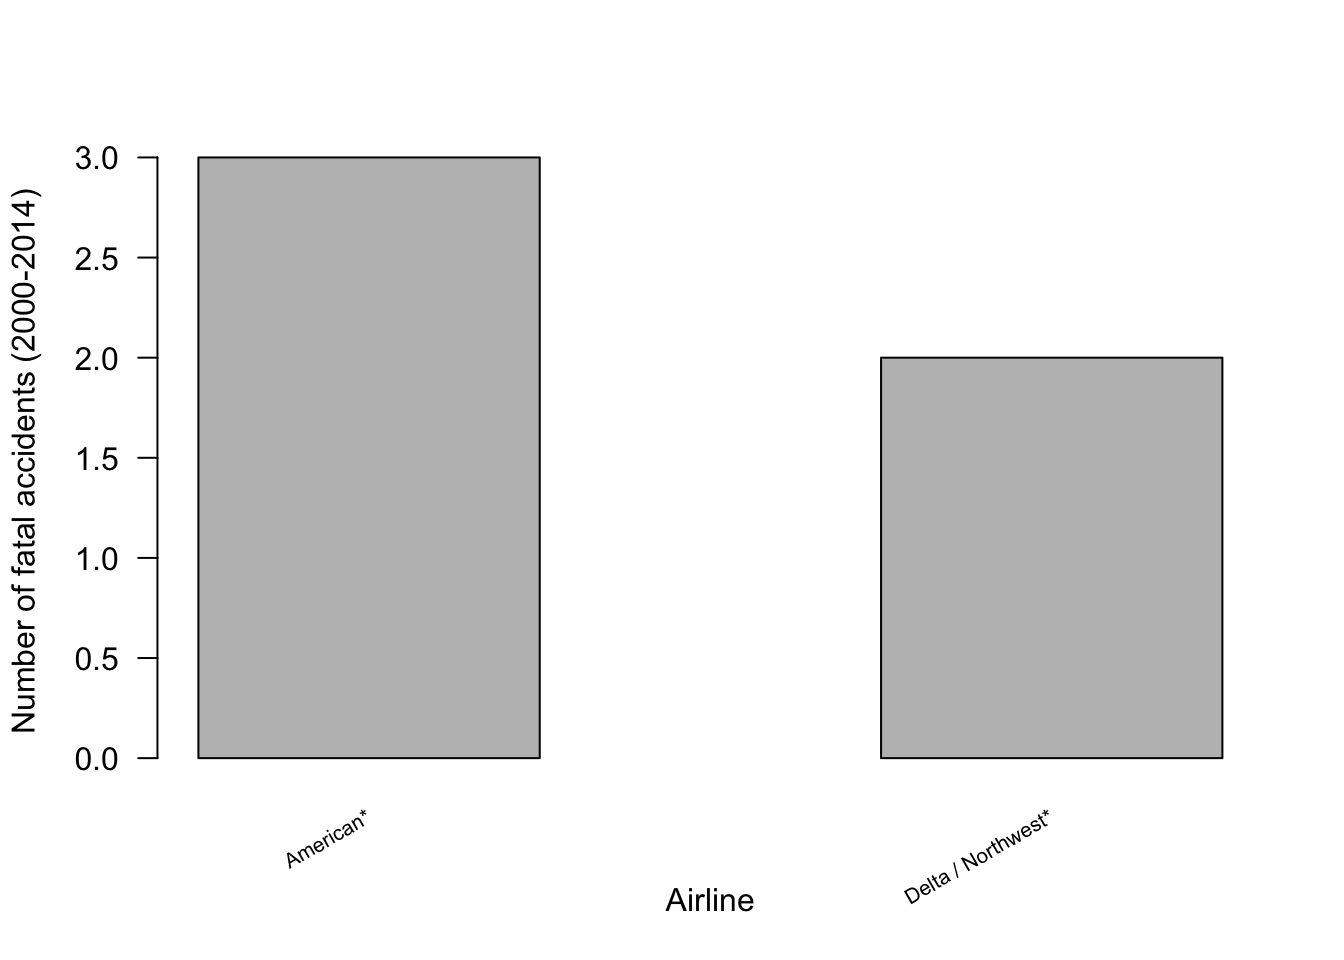
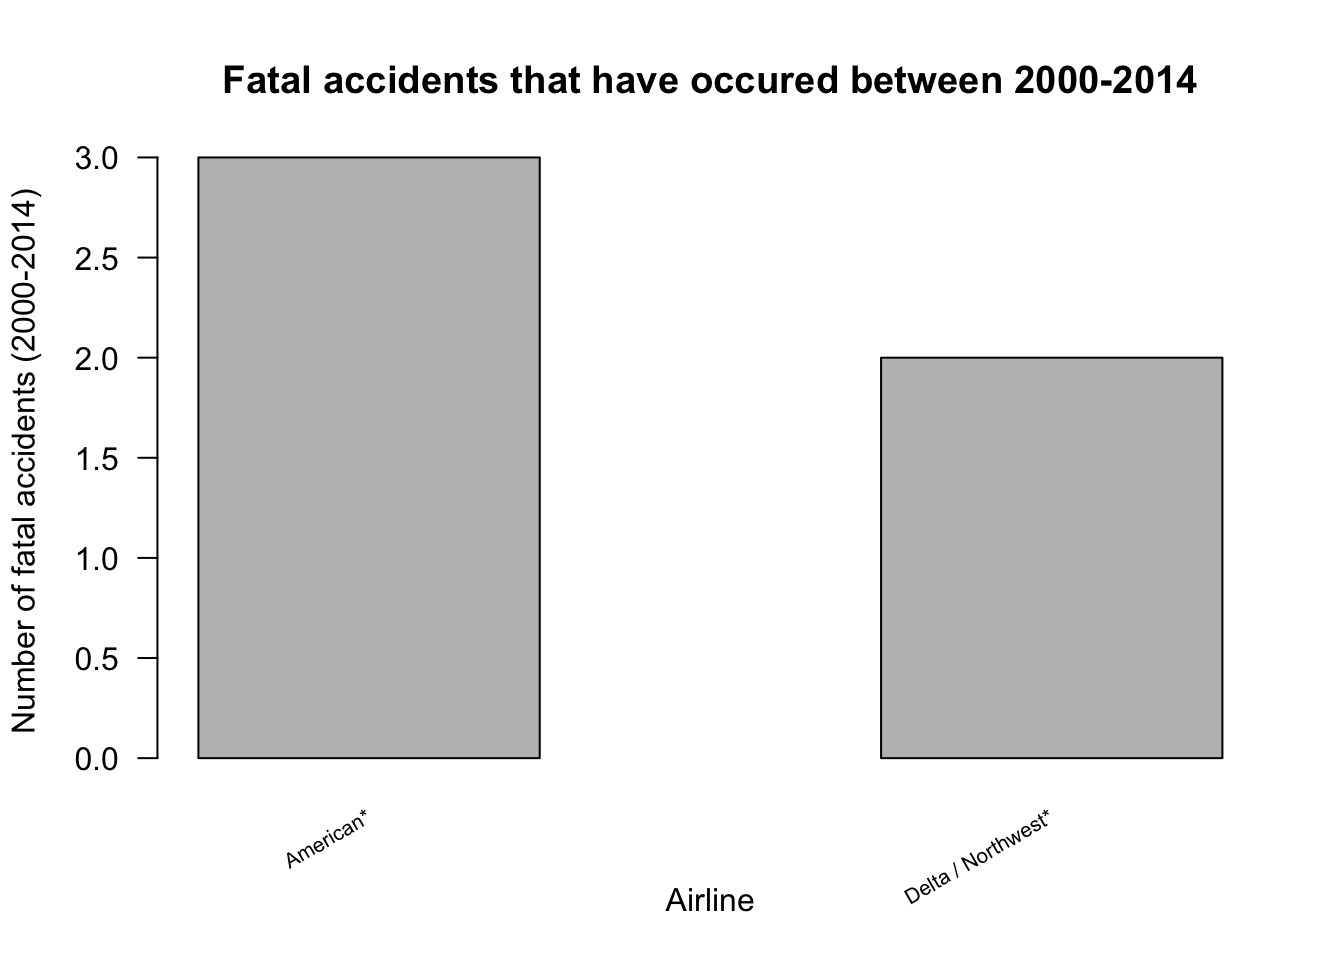
finalized assignment v2

Changed region(s): [[0.1562, 0.0625, 0.9062, 0.0938]]

diff --git a/docs/posts/BCB 520 MidtermPortfolio /index.html b/docs/posts/BCB 520 MidtermPortfolio /index.html
@@ -357,7 +357,7 @@ Median                                                   4.000000
 </div>
 <details>
 <summary>Code</summary>
-<div class="sourceCode cell-code" id="cb8"><pre class="sourceCode r code-with-copy"><code class="sourceCode r"><span id="cb8-1"><a href="#cb8-1" aria-hidden="true" tabindex="-1"></a><span class="fu">hist</span>(airlinesafety<span class="sc">$</span>incidents_85_99, <span class="at">freq =</span> <span class="cn">TRUE</span>,</span>
+<div class="sourceCode cell-code" id="cb8"><pre class="sourceCode r code-with-copy"><code class="sourceCode r"><span id="cb8-1"><a href="#cb8-1" aria-hidden="true" tabindex="-1"></a><span class="fu">hist</span>(airlinesafety<span class="sc">$</span>incidents_85_99, <span class="at">main =</span> <span class="st">"Incidents that have occured between 1985-1999"</span>, <span class="at">freq =</span> <span class="cn">TRUE</span>,</span>
 <span id="cb8-2"><a href="#cb8-2" aria-hidden="true" tabindex="-1"></a>     <span class="at">xlab =</span> <span class="st">"Number of incidents in 1985 to 1999"</span>,</span>
 <span id="cb8-3"><a href="#cb8-3" aria-hidden="true" tabindex="-1"></a>     <span class="at">ylab =</span> <span class="st">"Frequency"</span>, <span class="at">ylim =</span> <span class="fu">c</span>(<span class="dv">0</span>, <span class="dv">50</span>))</span></code><button title="Copy to Clipboard" class="code-copy-button"><i class="bi"></i></button></pre></div>
 </details>
@@ -366,7 +366,7 @@ Median                                                   4.000000
 </div>
 <details>
 <summary>Code</summary>
-<div class="sourceCode cell-code" id="cb9"><pre class="sourceCode r code-with-copy"><code class="sourceCode r"><span id="cb9-1"><a href="#cb9-1" aria-hidden="true" tabindex="-1"></a><span class="fu">hist</span>(airlinesafety<span class="sc">$</span>incidents_00_14, <span class="at">freq =</span> <span class="cn">TRUE</span>,</span>
+<div class="sourceCode cell-code" id="cb9"><pre class="sourceCode r code-with-copy"><code class="sourceCode r"><span id="cb9-1"><a href="#cb9-1" aria-hidden="true" tabindex="-1"></a><span class="fu">hist</span>(airlinesafety<span class="sc">$</span>incidents_00_14, <span class="at">main =</span> <span class="st">"Incidents that have occured between 2000-2014"</span>, <span class="at">freq =</span> <span class="cn">TRUE</span>,</span>
 <span id="cb9-2"><a href="#cb9-2" aria-hidden="true" tabindex="-1"></a>     <span class="at">xlab =</span> <span class="st">"Number of incidents in 2000 to 2014"</span>,</span>
 <span id="cb9-3"><a href="#cb9-3" aria-hidden="true" tabindex="-1"></a>     <span class="at">ylab =</span> <span class="st">"Frequency"</span>, <span class="at">ylim =</span> <span class="fu">c</span>(<span class="dv">0</span>, <span class="dv">50</span>))</span></code><button title="Copy to Clipboard" class="code-copy-button"><i class="bi"></i></button></pre></div>
 </details>
@@ -409,8 +409,8 @@ Max                                                                 14.000000
 <details>
 <summary>Code</summary>
 <div class="sourceCode cell-code" id="cb12"><pre class="sourceCode r code-with-copy"><code class="sourceCode r"><span id="cb12-1"><a href="#cb12-1" aria-hidden="true" tabindex="-1"></a>selected_85_99 <span class="ot">=</span> airlinesafety<span class="sc">$</span>incidents_85_99 <span class="sc">&gt;=</span> <span class="dv">15</span></span>
-<span id="cb12-2"><a href="#cb12-2" aria-hidden="true" tabindex="-1"></a><span class="fu">barplot</span>(<span class="at">formula =</span> fatal_accidents_85_99 <span class="sc">~</span> airline, <span class="at">data =</span> airlinesafety[selected_85_99,],</span>
-<span id="cb12-3"><a href="#cb12-3" aria-hidden="true" tabindex="-1"></a>        <span class="at">horiz =</span> <span class="cn">FALSE</span>, <span class="at">cex.axis =</span> <span class="dv">1</span>,</span>
+<span id="cb12-2"><a href="#cb12-2" aria-hidden="true" tabindex="-1"></a><span class="fu">barplot</span>(<span class="at">formula =</span> fatal_accidents_85_99 <span class="sc">~</span> airline, <span class="at">main=</span><span class="st">"Fatal accidents that have occured between 1985-1999"</span>, <span class="at">data =</span> airlinesafety[selected_85_99, ],  </span>
+<span id="cb12-3"><a href="#cb12-3" aria-hidden="true" tabindex="-1"></a>        <span class="at">horiz =</span> <span class="cn">FALSE</span>, <span class="at">cex.axis =</span> <span class="dv">1</span>, </span>
 <span id="cb12-4"><a href="#cb12-4" aria-hidden="true" tabindex="-1"></a>        <span class="at">xlab =</span> <span class="st">"Airline"</span>, <span class="at">xaxt =</span> <span class="st">"n"</span>,</span>
 <span id="cb12-5"><a href="#cb12-5" aria-hidden="true" tabindex="-1"></a>        <span class="at">las =</span> <span class="dv">2</span>,</span>
 <span id="cb12-6"><a href="#cb12-6" aria-hidden="true" tabindex="-1"></a>        <span class="at">ylab =</span> <span class="st">"Number of fatal accidents (1985-1999)"</span>,</span>
@@ -429,7 +429,7 @@ Max                                                                 14.000000
 <details>
 <summary>Code</summary>
 <div class="sourceCode cell-code" id="cb13"><pre class="sourceCode r code-with-copy"><code class="sourceCode r"><span id="cb13-1"><a href="#cb13-1" aria-hidden="true" tabindex="-1"></a>selected_00_14 <span class="ot">=</span> airlinesafety<span class="sc">$</span>incidents_00_14 <span class="sc">&gt;=</span> <span class="dv">15</span></span>
-<span id="cb13-2"><a href="#cb13-2" aria-hidden="true" tabindex="-1"></a><span class="fu">barplot</span>(<span class="at">formula =</span> fatal_accidents_00_14 <span class="sc">~</span> airline, <span class="at">data =</span> airlinesafety[selected_00_14,],</span>
+<span id="cb13-2"><a href="#cb13-2" aria-hidden="true" tabindex="-1"></a><span class="fu">barplot</span>(<span class="at">formula =</span> fatal_accidents_00_14 <span class="sc">~</span> airline, <span class="at">main=</span><span class="st">"Fatal accidents that have occured between 2000-2014"</span>, <span class="at">data =</span> airlinesafety[selected_00_14,],</span>
 <span id="cb13-3"><a href="#cb13-3" aria-hidden="true" tabindex="-1"></a>        <span class="at">horiz =</span> <span class="cn">FALSE</span>, <span class="at">cex.axis =</span> <span class="dv">1</span>,</span>
 <span id="cb13-4"><a href="#cb13-4" aria-hidden="true" tabindex="-1"></a>        <span class="at">xlab =</span> <span class="st">"Airline"</span>, <span class="at">xaxt =</span> <span class="st">"n"</span>,</span>
 <span id="cb13-5"><a href="#cb13-5" aria-hidden="true" tabindex="-1"></a>        <span class="at">las =</span> <span class="dv">2</span>,</span>
@@ -700,10 +700,10 @@ window.document.addEventListener("DOMContentLoaded", function (event) {
 <span id="cb14-64"><a href="#cb14-64" aria-hidden="true" tabindex="-1"></a>      <span class="st">`</span><span class="at">% of airlines with more than incident in 15 years</span><span class="st">`</span> <span class="ot">=</span> <span class="dv">100</span><span class="sc">*</span><span class="fu">c</span>(<span class="fu">mean</span>(airlinesafety<span class="sc">$</span>incidents_00_14 <span class="sc">&gt;</span> <span class="dv">1</span>), <span class="fu">mean</span>(airlinesafety<span class="sc">$</span>incidents_85_99 <span class="sc">&gt;</span> <span class="dv">1</span>)))</span>
 <span id="cb14-65"><a href="#cb14-65" aria-hidden="true" tabindex="-1"></a>SumIncidents</span>
 <span id="cb14-66"><a href="#cb14-66" aria-hidden="true" tabindex="-1"></a></span>
-<span id="cb14-67"><a href="#cb14-67" aria-hidden="true" tabindex="-1"></a><span class="fu">hist</span>(airlinesafety<span class="sc">$</span>incidents_85_99, <span class="at">freq =</span> <span class="cn">TRUE</span>,</span>
+<span id="cb14-67"><a href="#cb14-67" aria-hidden="true" tabindex="-1"></a><span class="fu">hist</span>(airlinesafety<span class="sc">$</span>incidents_85_99, <span class="at">main =</span> <span class="st">"Incidents that have occured between 1985-1999"</span>, <span class="at">freq =</span> <span class="cn">TRUE</span>,</span>
 <span id="cb14-68"><a href="#cb14-68" aria-hidden="true" tabindex="-1"></a>     <span class="at">xlab =</span> <span class="st">"Number of incidents in 1985 to 1999"</span>,</span>
 <span id="cb14-69"><a href="#cb14-69" aria-hidden="true" tabindex="-1"></a>     <span class="at">ylab =</span> <span class="st">"Frequency"</span>, <span class="at">ylim =</span> <span class="fu">c</span>(<span class="dv">0</span>, <span class="dv">50</span>))</span>
-<span id="cb14-70"><a href="#cb14-70" aria-hidden="true" tabindex="-1"></a><span class="fu">hist</span>(airlinesafety<span class="sc">$</span>incidents_00_14, <span class="at">freq =</span> <span class="cn">TRUE</span>,</span>
+<span id="cb14-70"><a href="#cb14-70" aria-hidden="true" tabindex="-1"></a><span class="fu">hist</span>(airlinesafety<span class="sc">$</span>incidents_00_14, <span class="at">main =</span> <span class="st">"Incidents that have occured between 2000-2014"</span>, <span class="at">freq =</span> <span class="cn">TRUE</span>,</span>
 <span id="cb14-71"><a href="#cb14-71" aria-hidden="true" tabindex="-1"></a>     <span class="at">xlab =</span> <span class="st">"Number of incidents in 2000 to 2014"</span>,</span>
 <span id="cb14-72"><a href="#cb14-72" aria-hidden="true" tabindex="-1"></a>     <span class="at">ylab =</span> <span class="st">"Frequency"</span>, <span class="at">ylim =</span> <span class="fu">c</span>(<span class="dv">0</span>, <span class="dv">50</span>))</span>
 <span id="cb14-73"><a href="#cb14-73" aria-hidden="true" tabindex="-1"></a></span>
@@ -724,8 +724,8 @@ window.document.addEventListener("DOMContentLoaded", function (event) {
 <span id="cb14-90"><a href="#cb14-90" aria-hidden="true" tabindex="-1"></a>With this information, I sought to know the airlines with much with on average one incident per year or more in the period 1985-1999 as well as the period 2000-2014</span>
 <span id="cb14-93"><a href="#cb14-93" aria-hidden="true" tabindex="-1"></a><span class="in">```{r}</span></span>
 <span id="cb14-94"><a href="#cb14-94" aria-hidden="true" tabindex="-1"></a>selected_85_99 <span class="ot">=</span> airlinesafety<span class="sc">$</span>incidents_85_99 <span class="sc">&gt;=</span> <span class="dv">15</span></span>
-<span id="cb14-95"><a href="#cb14-95" aria-hidden="true" tabindex="-1"></a><span class="fu">barplot</span>(<span class="at">formula =</span> fatal_accidents_85_99 <span class="sc">~</span> airline, <span class="at">data =</span> airlinesafety[selected_85_99,],</span>
-<span id="cb14-96"><a href="#cb14-96" aria-hidden="true" tabindex="-1"></a>        <span class="at">horiz =</span> <span class="cn">FALSE</span>, <span class="at">cex.axis =</span> <span class="dv">1</span>,</span>
+<span id="cb14-95"><a href="#cb14-95" aria-hidden="true" tabindex="-1"></a><span class="fu">barplot</span>(<span class="at">formula =</span> fatal_accidents_85_99 <span class="sc">~</span> airline, <span class="at">main=</span><span class="st">"Fatal accidents that have occured between 1985-1999"</span>, <span class="at">data =</span> airlinesafety[selected_85_99, ],  </span>
+<span id="cb14-96"><a href="#cb14-96" aria-hidden="true" tabindex="-1"></a>        <span class="at">horiz =</span> <span class="cn">FALSE</span>, <span class="at">cex.axis =</span> <span class="dv">1</span>, </span>
 <span id="cb14-97"><a href="#cb14-97" aria-hidden="true" tabindex="-1"></a>        <span class="at">xlab =</span> <span class="st">"Airline"</span>, <span class="at">xaxt =</span> <span class="st">"n"</span>,</span>
 <span id="cb14-98"><a href="#cb14-98" aria-hidden="true" tabindex="-1"></a>        <span class="at">las =</span> <span class="dv">2</span>,</span>
 <span id="cb14-99"><a href="#cb14-99" aria-hidden="true" tabindex="-1"></a>        <span class="at">ylab =</span> <span class="st">"Number of fatal accidents (1985-1999)"</span>,</span>
@@ -739,7 +739,7 @@ window.document.addEventListener("DOMContentLoaded", function (event) {
 <span id="cb14-107"><a href="#cb14-107" aria-hidden="true" tabindex="-1"></a></span>
 <span id="cb14-110"><a href="#cb14-110" aria-hidden="true" tabindex="-1"></a><span class="in">```{r}</span></span>
 <span id="cb14-111"><a href="#cb14-111" aria-hidden="true" tabindex="-1"></a>selected_00_14 <span class="ot">=</span> airlinesafety<span class="sc">$</span>incidents_00_14 <span class="sc">&gt;=</span> <span class="dv">15</span></span>
-<span id="cb14-112"><a href="#cb14-112" aria-hidden="true" tabindex="-1"></a><span class="fu">barplot</span>(<span class="at">formula =</span> fatal_accidents_00_14 <span class="sc">~</span> airline, <span class="at">data =</span> airlinesafety[selected_00_14,],</span>
+<span id="cb14-112"><a href="#cb14-112" aria-hidden="true" tabindex="-1"></a><span class="fu">barplot</span>(<span class="at">formula =</span> fatal_accidents_00_14 <span class="sc">~</span> airline, <span class="at">main=</span><span class="st">"Fatal accidents that have occured between 2000-2014"</span>, <span class="at">data =</span> airlinesafety[selected_00_14,],</span>
 <span id="cb14-113"><a href="#cb14-113" aria-hidden="true" tabindex="-1"></a>        <span class="at">horiz =</span> <span class="cn">FALSE</span>, <span class="at">cex.axis =</span> <span class="dv">1</span>,</span>
 <span id="cb14-114"><a href="#cb14-114" aria-hidden="true" tabindex="-1"></a>        <span class="at">xlab =</span> <span class="st">"Airline"</span>, <span class="at">xaxt =</span> <span class="st">"n"</span>,</span>
 <span id="cb14-115"><a href="#cb14-115" aria-hidden="true" tabindex="-1"></a>        <span class="at">las =</span> <span class="dv">2</span>,</span>

diff --git a/docs/index.html b/docs/index.html
@@ -166,7 +166,7 @@ ul.task-list li input[type="checkbox"] {
 
 <div class="quarto-listing quarto-listing-container-default" id="listing-listing">
 <div class="list quarto-listing-default">
-<div class="quarto-post image-right" data-index="0" data-categories="Data,Visualizations" data-listing-date-sort="1679727600000" data-listing-file-modified-sort="1680637294298" data-listing-reading-time-sort="3.88">
+<div class="quarto-post image-right" data-index="0" data-categories="Data,Visualizations" data-listing-date-sort="1679727600000" data-listing-file-modified-sort="1680639848469" data-listing-reading-time-sort="4.05">
 <div class="thumbnail">
 <p><a href="./posts/BCB 520 MidtermPortfolio /index.html"> <img src="./posts/BCB 520 MidtermPortfolio /coa-aviation-safety-image.jpeg" class="thumnail-image"> </a></p>
 </div>
